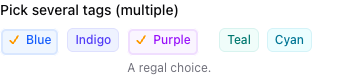
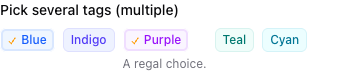
Align chip label baseline with the selected check
The previous fix wrapped the label in an inline-flex span with leading-none,
which shifted the text baseline of checked chips relative to unchecked ones
in the same row. Drop the wrapper and render the check icon inline-block with
align-middle next to the label so the badge's own layout keeps every label on
the same baseline. Refresh screenshots.

diff --git a/resources/views/components/choosable-chips.blade.php b/resources/views/components/choosable-chips.blade.php
@@ -87,25 +87,23 @@
                         'cursor-pointer' => ! $shouldOptionBeDisabled,
                     ])
                 >
-                    <span class="fi-fo-choosable-chips-chip-label inline-flex items-center gap-x-1 leading-none">
-                        @if ($isCheckSelected)
-                            {{
-                                \Filament\Support\generate_icon_html(
-                                    $checkIcon,
-                                    attributes: (new ComponentAttributeBag)
-                                        ->color(\Filament\Support\View\Components\BadgeComponent::class, $selectedColor)
-                                        ->class(['fi-fo-choosable-chips-chip-check -ms-0.5'])
-                                        ->merge([
-                                            'x-show' => "isSelected({$jsValue})",
-                                            'x-cloak' => true,
-                                        ], escape: false),
-                                    size: \Filament\Support\Enums\IconSize::ExtraSmall,
-                                )
-                            }}
-                        @endif
+                    @if ($isCheckSelected)
+                        {{
+                            \Filament\Support\generate_icon_html(
+                                $checkIcon,
+                                attributes: (new ComponentAttributeBag)
+                                    ->color(\Filament\Support\View\Components\BadgeComponent::class, $selectedColor)
+                                    ->class(['fi-fo-choosable-chips-chip-check -ms-0.5 inline-block align-middle'])
+                                    ->merge([
+                                        'x-show' => "isSelected({$jsValue})",
+                                        'x-cloak' => true,
+                                    ], escape: false),
+                                size: \Filament\Support\Enums\IconSize::ExtraSmall,
+                            )
+                        }}
+                    @endif
 
-                        <span>{{ $label }}</span>
-                    </span>
+                    {{ $label }}
 
                     @if ($isDismissible && ! $isCheckSelected && ! $shouldOptionBeDisabled)
                         <x-slot
